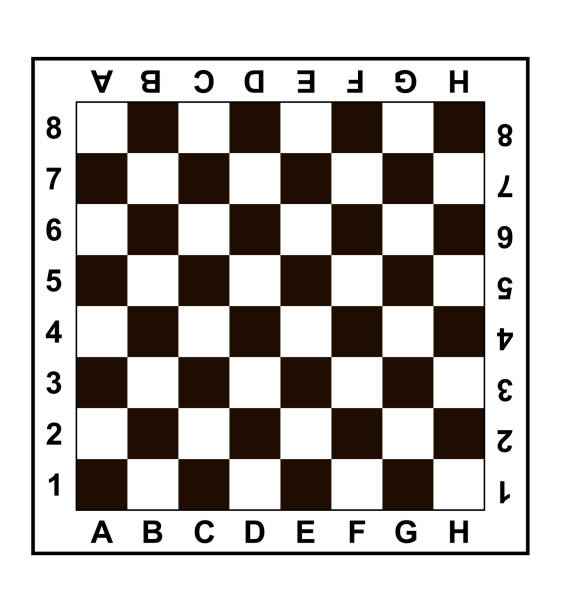
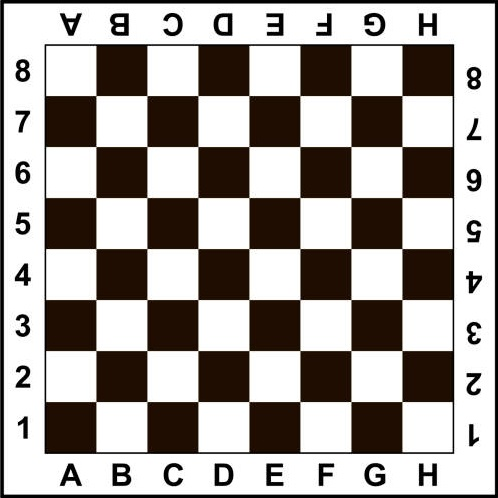
add basic board draw

diff --git a/src/game.cpp b/src/game.cpp
@@ -1,12 +1,136 @@
 #include "game.hpp"
 
-Game::Game(Game::Mode mode)
-    : window_(sf::VideoMode(1000, 1000),
-              "Chess one player",
-              sf::Style::Close),
-      mode_(mode) {
-  // Load texture
+using namespace sf;
 
+Game::Game(Game::Mode mode)
+    : window_(VideoMode(800, 900),
+              "Chess one player",
+              Style::Close),
+      mode_(mode) {
+  // Manage background picture
+  if (!bg_texture_.loadFromFile("../assets/menu-textures/game_bg.jpg",
+                                IntRect(0, 0, 800, 900))) {
+    throw std::runtime_error("Failed to load game background texture");
+  }
+  bg_texture_.setSmooth(true);
+  bg_sprite_.setTexture(bg_texture_);
+
+  std::ifstream config("../.cfg");
+  if (!config) {
+    throw std::runtime_error("Failed to open .cfg (settings file)");
+  }
+  // Manage board settings
+  int board_type;
+  config >> board_type;
+  // Skip parameter comment
+  config.ignore(50, '\n');
+  switch (board_type) {
+    case 1: {
+      if (!board_texture_.loadFromFile("../assets/boards/1.jpg")) {
+        throw std::runtime_error("Failed to load board/1.jpg");
+      }
+      break;
+    }
+
+    case 2: {
+      if (!board_texture_.loadFromFile("../assets/boards/2.jpg")) {
+        throw std::runtime_error("Failed to load board/2.jpg");
+      }
+      square_indent_ = 45;
+      square_size_ = 51;
+      break;
+    }
+
+    case 3: {
+      if (!board_texture_.loadFromFile("../assets/boards/3.jpg")) {
+        throw std::runtime_error("Failed to load board/3.jpg");
+      }
+      break;
+    }
+
+    default: {
+      throw std::runtime_error("Unknown board type in .cfg (settings file)");
+    }
+  }
+  board_texture_.setSmooth(true);
+  board_sprite_.setTexture(board_texture_);
+  board_sprite_.setScale(
+      800.f / static_cast<float>(board_texture_.getSize().x),
+      800.f / static_cast<float>(board_texture_.getSize().y)
+  );
+  // Change values according to new scale
+  square_indent_ *= board_sprite_.getScale().x;
+  square_size_ *= board_sprite_.getScale().x;
+
+  // Manage pieces settings
+
+  int pieces_type;
+  config >> pieces_type;
+  // Skip parameter comment
+  config.ignore(50, '\n');
+
+  // Single piece size in texture
+  std::string path;
+  int sz;
+
+  switch (pieces_type) {
+    case 1: {
+      path = "../assets/pieces/1.png";
+      if (false) {
+        throw std::runtime_error("Failed to load pieces/1.png");
+      }
+      break;
+    }
+
+    case 2: {
+      path = "../assets/pieces/2.png";
+      // Just integer copy of piece_size_
+      sz = 64;
+      piece_size_ = static_cast<float>(sz);
+
+      if (!white_king_.loadFromFile(path, IntRect(0, sz, sz, sz))
+          || !white_queen_.loadFromFile(path, IntRect(sz, sz, sz, sz))
+          || !white_bishop_.loadFromFile(path, IntRect(4 * sz, sz, sz, sz))
+          || !white_knight_.loadFromFile(path, IntRect(3 * sz, sz, sz, sz))
+          || !white_rook_.loadFromFile(path, IntRect(2 * sz, sz, sz, sz))
+          || !white_pawn_.loadFromFile(path, IntRect(5 * sz, sz, sz, sz))
+
+          || !black_king_.loadFromFile(path, IntRect(0, 0, sz, sz))
+          || !black_queen_.loadFromFile(path, IntRect(sz, 0, sz, sz))
+          || !black_bishop_.loadFromFile(path, IntRect(4 * sz, 0, sz, sz))
+          || !black_knight_.loadFromFile(path, IntRect(3 * sz, 0, sz, sz))
+          || !black_rook_.loadFromFile(path, IntRect(2 * sz, 0, sz, sz))
+          || !black_pawn_.loadFromFile(path, IntRect(5 * sz, 0, sz, sz))) {
+        throw std::runtime_error("Failed to load pieces/2.png");
+      }
+      break;
+    }
+
+    case 3: {
+      if (false) {
+        throw std::runtime_error("Failed to load pieces/3.png");
+      }
+      break;
+    }
+
+    default: {
+      throw std::runtime_error("Unknown pieces type in .cfg (settings file)");
+    }
+  }
+  white_king_.setSmooth(true);
+  white_queen_.setSmooth(true);
+  white_bishop_.setSmooth(true);
+  white_knight_.setSmooth(true);
+  white_rook_.setSmooth(true);
+  white_pawn_.setSmooth(true);
+  black_king_.setSmooth(true);
+  black_queen_.setSmooth(true);
+  black_bishop_.setSmooth(true);
+  black_knight_.setSmooth(true);
+  black_rook_.setSmooth(true);
+  black_pawn_.setSmooth(true);
+
+  config.close();
 }
 
 bool Game::IsOpen() const {
@@ -14,10 +138,10 @@ bool Game::IsOpen() const {
 }
 
 void Game::Events() {
-  sf::Event event{};
+  Event event{};
   while (window_.pollEvent(event)) {
     switch (event.type) {
-      case sf::Event::Closed: {
+      case Event::Closed: {
         window_.close();
         break;
       }
@@ -30,5 +154,71 @@ void Game::Events() {
 }
 
 void Game::Display() {
+  window_.draw(bg_sprite_);
+  window_.draw(board_sprite_);
 
+  // Iterate thought FEN board and draw pieces
+  Sprite piece;
+  piece.setScale(square_size_ / piece_size_,
+                 square_size_ / piece_size_);
+  float row = square_indent_;
+  float col = square_indent_;
+  for (int i = 0; fen_board[i] != ' '; ++i) {
+    piece.setPosition(col, row);
+    if (fen_board[i] == '/') {
+      row += square_size_;
+      col = square_indent_;
+      piece.setPosition(col, row);
+      continue;
+    } else if (isdigit(fen_board[i])) {
+      // Skip empty squares
+      for (int skip = fen_board[i] - '0'; skip > 0; --skip) {
+        col += square_size_;
+      }
+    } else {
+      switch (fen_board[i]) {
+        case 'K':piece.setTexture(white_king_);
+          break;
+
+        case 'Q':piece.setTexture(white_queen_);
+          break;
+
+        case 'B':piece.setTexture(white_bishop_);
+          break;
+
+        case 'N':piece.setTexture(white_knight_);
+          break;
+
+        case 'R':piece.setTexture(white_rook_);
+          break;
+
+        case 'P':piece.setTexture(white_pawn_);
+          break;
+
+        case 'k':piece.setTexture(black_king_);
+          break;
+
+        case 'q':piece.setTexture(black_queen_);
+          break;
+
+        case 'b':piece.setTexture(black_bishop_);
+          break;
+
+        case 'n':piece.setTexture(black_knight_);
+          break;
+
+        case 'r':piece.setTexture(black_rook_);
+          break;
+
+        case 'p':piece.setTexture(black_pawn_);
+          break;
+
+        default:throw std::runtime_error("Invalid FEN character");
+      }
+      window_.draw(piece);
+      col += square_size_;
+    }
+  }
+
+  window_.display();
 }

diff --git a/src/game.hpp b/src/game.hpp
@@ -1,6 +1,7 @@
 #pragma once
 
 #include <array>
+#include <fstream>
 
 #include <SFML/Graphics.hpp>
 
@@ -27,8 +28,29 @@ class Game {
 
   sf::Texture board_texture_;
   sf::Sprite board_sprite_;
+  float square_indent_;
+  float square_size_;
+
+  sf::Texture white_king_;
+  sf::Texture white_queen_;
+  sf::Texture white_bishop_;
+  sf::Texture white_knight_;
+  sf::Texture white_rook_;
+  sf::Texture white_pawn_;
+
+  sf::Texture black_king_;
+  sf::Texture black_queen_;
+  sf::Texture black_bishop_;
+  sf::Texture black_knight_;
+  sf::Texture black_rook_;
+  sf::Texture black_pawn_;
+
+  float piece_size_;
 
   Mode mode_;
+
+  std::string
+      fen_board{"rnbqkbnr/pppppppp/8/8/8/8/PPPPPPPP/RNBQKBNR w KQkq - 0 1"};
 };
 
 
